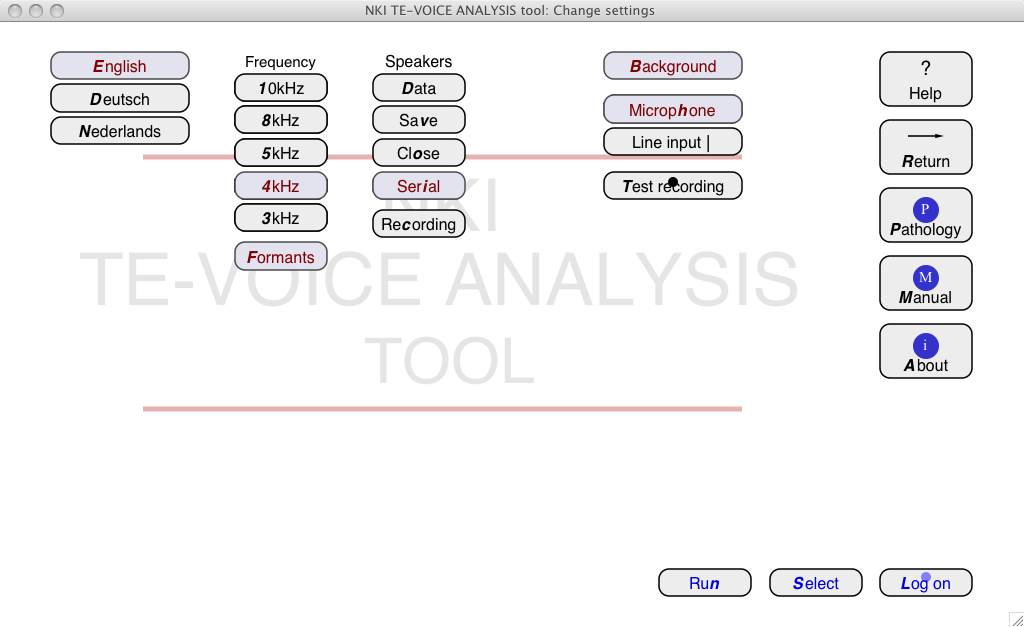
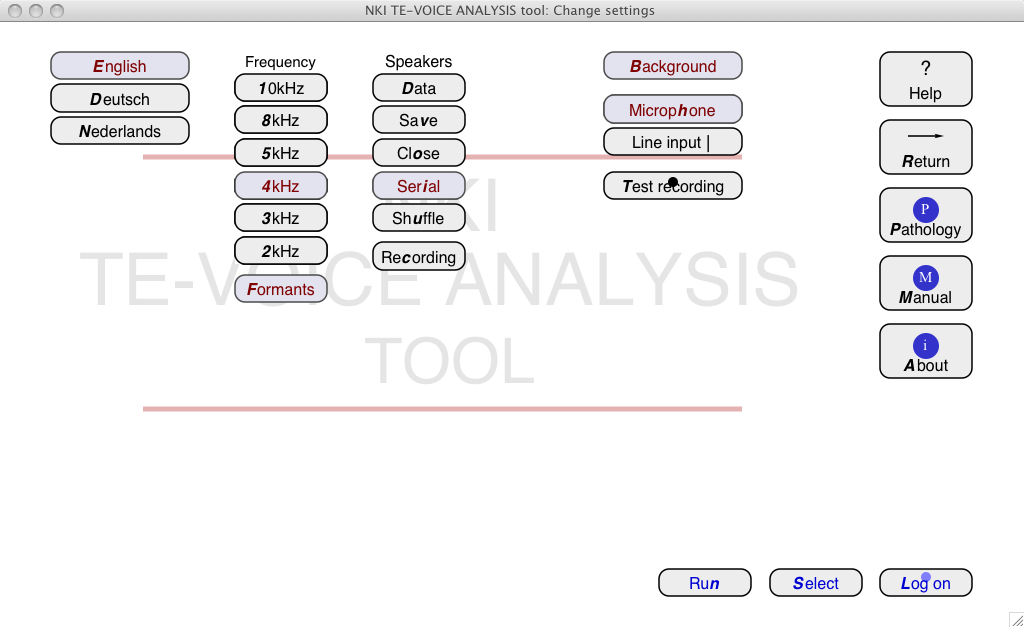
Updated HTML and Screenshots

Changed region(s): [[0.2188, 0.303, 0.4688, 0.4848]]

diff --git a/HTML/NKI_TEVA.htm b/HTML/NKI_TEVA.htm
@@ -184,7 +184,7 @@ The display</h3>
 <p>
 In the center of the page is the display area where a graph is drawn with the analysis. Below the time axis (if present), 
 the voiced parts are indicated with blue-gray line segments. A green marker will indicate the point where the <a href="http://www.fon.hum.uva.nl/praat/manual/Harmonicity.html" target="_blank">Harmonicity</a> is 
-maximal (which indicates a potential "best" part). These two addiotional markers will in general appear only after, respectively, 
+maximal (which indicates a potential "best" part). These two additional markers will in general appear only after, respectively, 
 the <a href="http://www.fon.hum.uva.nl/praat/manual/Pitch.html" target="_blank">Pitch</a> and <a href="http://www.fon.hum.uva.nl/praat/manual/Harmonicity.html" target="_blank">Harmonicity</a> contours have been displayed.</p>
 <h3>
 General functions</h3>
@@ -329,6 +329,8 @@ Set the maximal frequency to a frequency that just includes all the relevant fea
 <li>
 &nbsp;<b>3kHz</b>: [3] Display up to 3 kHz
 <li>
+&nbsp;<b>2kHz</b>: [2] Display up to 2 kHz
+<li>
 &nbsp;<b>Formants</b>: [F] Draw formants in spectrogram
 </ul>
 <h3>
@@ -345,6 +347,8 @@ with speaker data.</p>
 &nbsp;<b>Close</b>: [o] Close current table and open a new, empty one
 <li>
 &nbsp;<b>Serial</b>: [i] Step through all recordings in sequence (Speaker button reads next recording)
+<li>
+&nbsp;<b>Shuffle</b>: [u] Randomize the list of recordings
 <li>
 &nbsp;<b>Recording</b>: [c] Time of recording in seconds
 </ul>

diff --git a/HTML/Overview_of_Main_page.html b/HTML/Overview_of_Main_page.html
@@ -16,7 +16,7 @@ The display</h3>
 <p>
 In the center of the page is the display area where a graph is drawn with the analysis. Below the time axis (if present), 
 the voiced parts are indicated with blue-gray line segments. A green marker will indicate the point where the <a href="http://www.fon.hum.uva.nl/praat/manual/Harmonicity.html" target="_blank">Harmonicity</a> is 
-maximal (which indicates a potential "best" part). These two addiotional markers will in general appear only after, respectively, 
+maximal (which indicates a potential "best" part). These two additional markers will in general appear only after, respectively, 
 the <a href="http://www.fon.hum.uva.nl/praat/manual/Pitch.html" target="_blank">Pitch</a> and <a href="http://www.fon.hum.uva.nl/praat/manual/Harmonicity.html" target="_blank">Harmonicity</a> contours have been displayed.</p>
 <h3>
 General functions</h3>

diff --git a/HTML/Overview_of_Configuration_page.html b/HTML/Overview_of_Configuration_page.html
@@ -44,6 +44,8 @@ Set the maximal frequency to a frequency that just includes all the relevant fea
 <li>
 &nbsp;<b>3kHz</b>: [3] Display up to 3 kHz
 <li>
+&nbsp;<b>2kHz</b>: [2] Display up to 2 kHz
+<li>
 &nbsp;<b>Formants</b>: [F] Draw formants in spectrogram
 </ul>
 <h3>
@@ -60,6 +62,8 @@ with speaker data.</p>
 &nbsp;<b>Close</b>: [o] Close current table and open a new, empty one
 <li>
 &nbsp;<b>Serial</b>: [i] Step through all recordings in sequence (Speaker button reads next recording)
+<li>
+&nbsp;<b>Shuffle</b>: [u] Randomize the list of recordings
 <li>
 &nbsp;<b>Recording</b>: [c] Time of recording in seconds
 </ul>
